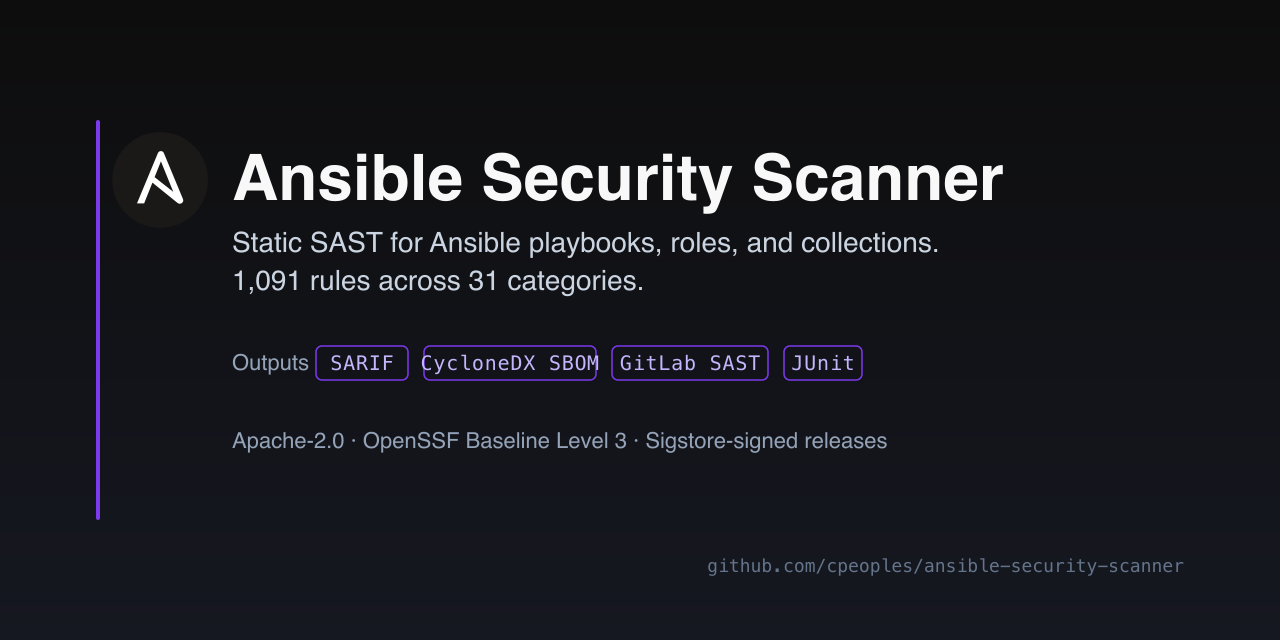
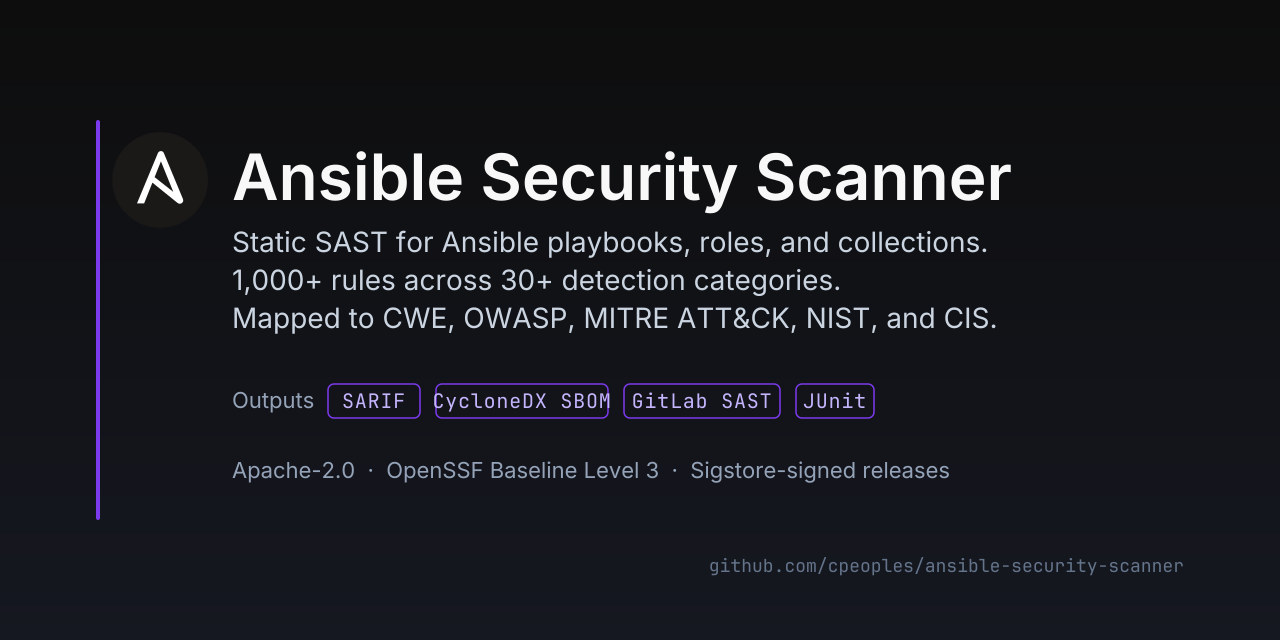
Add wordmark hero and framework mappings to README
- New light/dark brand-mark variants rendered with picture element
- README opening paragraph and What it detects now list framework mappings (CWE, OWASP, MITRE ATT&CK, NIST, CIS)
- OG image rebuilt: SemiBold title, three-line tagline, framework names, chip spacing
- Hugo build regex extended to cover srcset and a leading picture block

Changed region(s): [[0.1875, 0.25, 0.8125, 0.75], [0.5312, 0.875, 0.8438, 0.9062]]

diff --git a/.hugo/scripts/build_docs.py b/.hugo/scripts/build_docs.py
@@ -199,7 +199,7 @@ def _rewrite_links_for_hugo(body: str) -> str:
 
 _LEADING_H1_RE = re.compile(r"^#\s+(?P<title>.+?)\s*$\n+", re.MULTILINE)
 _LEADING_HTML_H1_RE = re.compile(
-    r"\A\s*<h1\b[^>]*>(?P<title>.*?)</h1>\s*\n+",
+    r"\A(?:\s*<p\b[^>]*>.*?</p>\s*)?\s*<h1\b[^>]*>(?P<title>.*?)</h1>\s*\n+",
     re.DOTALL | re.IGNORECASE,
 )
 _BADGES_BLOCK_RE = re.compile(
@@ -256,7 +256,7 @@ def build_index() -> None:
 
     content = _strip_readme_badge_block(content)
     content = re.sub(
-        r'(src|href)="docs/assets/',
+        r'(src|href|srcset)="docs/assets/',
         lambda m: f'{m.group(1)}="{ASSET_URL_PREFIX}',
         content,
     )

diff --git a/README.md b/README.md
@@ -1,7 +1,11 @@
-<h1 align="center" style="text-align: center;">
-  <img src="docs/assets/ansible.svg" alt="" height="32" align="center" />
-  Ansible Security Scanner
-</h1>
+<p align="center">
+  <picture>
+    <source media="(prefers-color-scheme: dark)" srcset="docs/assets/brand-mark.svg">
+    <img src="docs/assets/brand-mark-light.svg" alt="Ansible Security Scanner" width="560">
+  </picture>
+</p>
+
+<hr style="margin: 1.5rem 0;">
 
 <!-- BADGES_START - stripped from the Hugo docs build; see .hugo/scripts/build_docs.py -->
 <p align="center">
@@ -14,7 +18,7 @@
 </p>
 <!-- BADGES_END -->
 
-Static SAST scanner for Ansible playbooks, roles, collections, task files, vars, and inventories. Detects malicious code, RCE, command and template injection, hardcoded credentials, supply-chain risk, unauthorized cloud access, lateral movement, and reverse shells. Outputs SARIF, CycloneDX SBOM, GitLab SAST, JUnit, JSON, HTML, and Markdown reports with remediation guidance. CI-native, autofix-capable, DevSecOps-ready.
+Static SAST scanner for Ansible playbooks, roles, collections, task files, vars, and inventories. Detects malicious code, RCE, command and template injection, hardcoded credentials, supply-chain risk, unauthorized cloud access, lateral movement, and reverse shells. Outputs SARIF, CycloneDX SBOM, GitLab SAST, JUnit, JSON, HTML, and Markdown reports with remediation guidance. Findings map to CWE, OWASP Top 10, OWASP ASVS, MITRE ATT&CK, NIST, and CIS. CI-native, autofix-capable, DevSecOps-ready.
 
 **<!--RULES-->1091<!--/RULES--> rules** across **<!--CATS-->31<!--/CATS--> categories** -- all auto-discovered from YAML pattern plugins.
 
@@ -138,7 +142,7 @@ The scanner ships <!--RULES-->1091<!--/RULES--> rules across <!--CATS-->31<!--/C
 - AI/ML supply-chain and prompt-injection risks
 - Ansible hygiene, Ansible-specific anti-patterns, operational security
 
-Every rule includes severity, CWE/OWASP mapping, vulnerable and remediated examples, and remediation guidance. Findings are deduplicated across files via cross-file taint tracking. See the [full rule index](https://cpeoples.github.io/ansible-security-scanner/) for a per-category breakdown.
+Every rule includes severity, framework mappings (CWE, OWASP Top 10, OWASP ASVS, MITRE ATT&CK, NIST, CIS Controls), vulnerable and remediated examples, and remediation guidance. Findings are deduplicated across files via cross-file taint tracking. See the [full rule index](https://cpeoples.github.io/ansible-security-scanner/) for a per-category breakdown.
 
 ## Project Structure
 